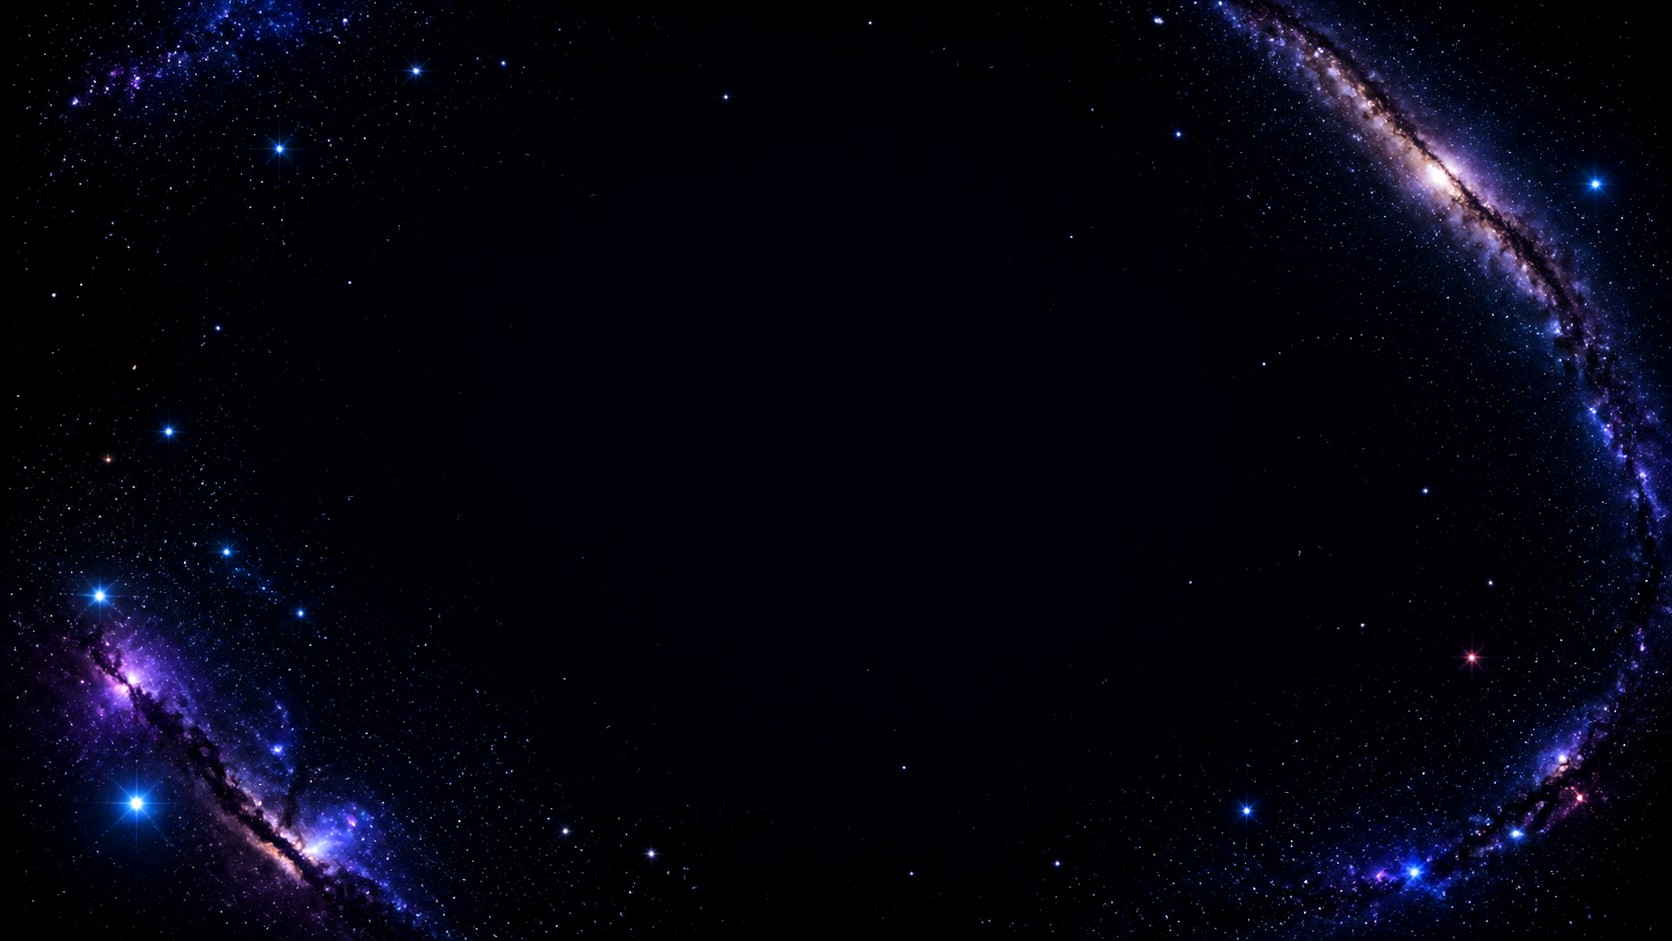
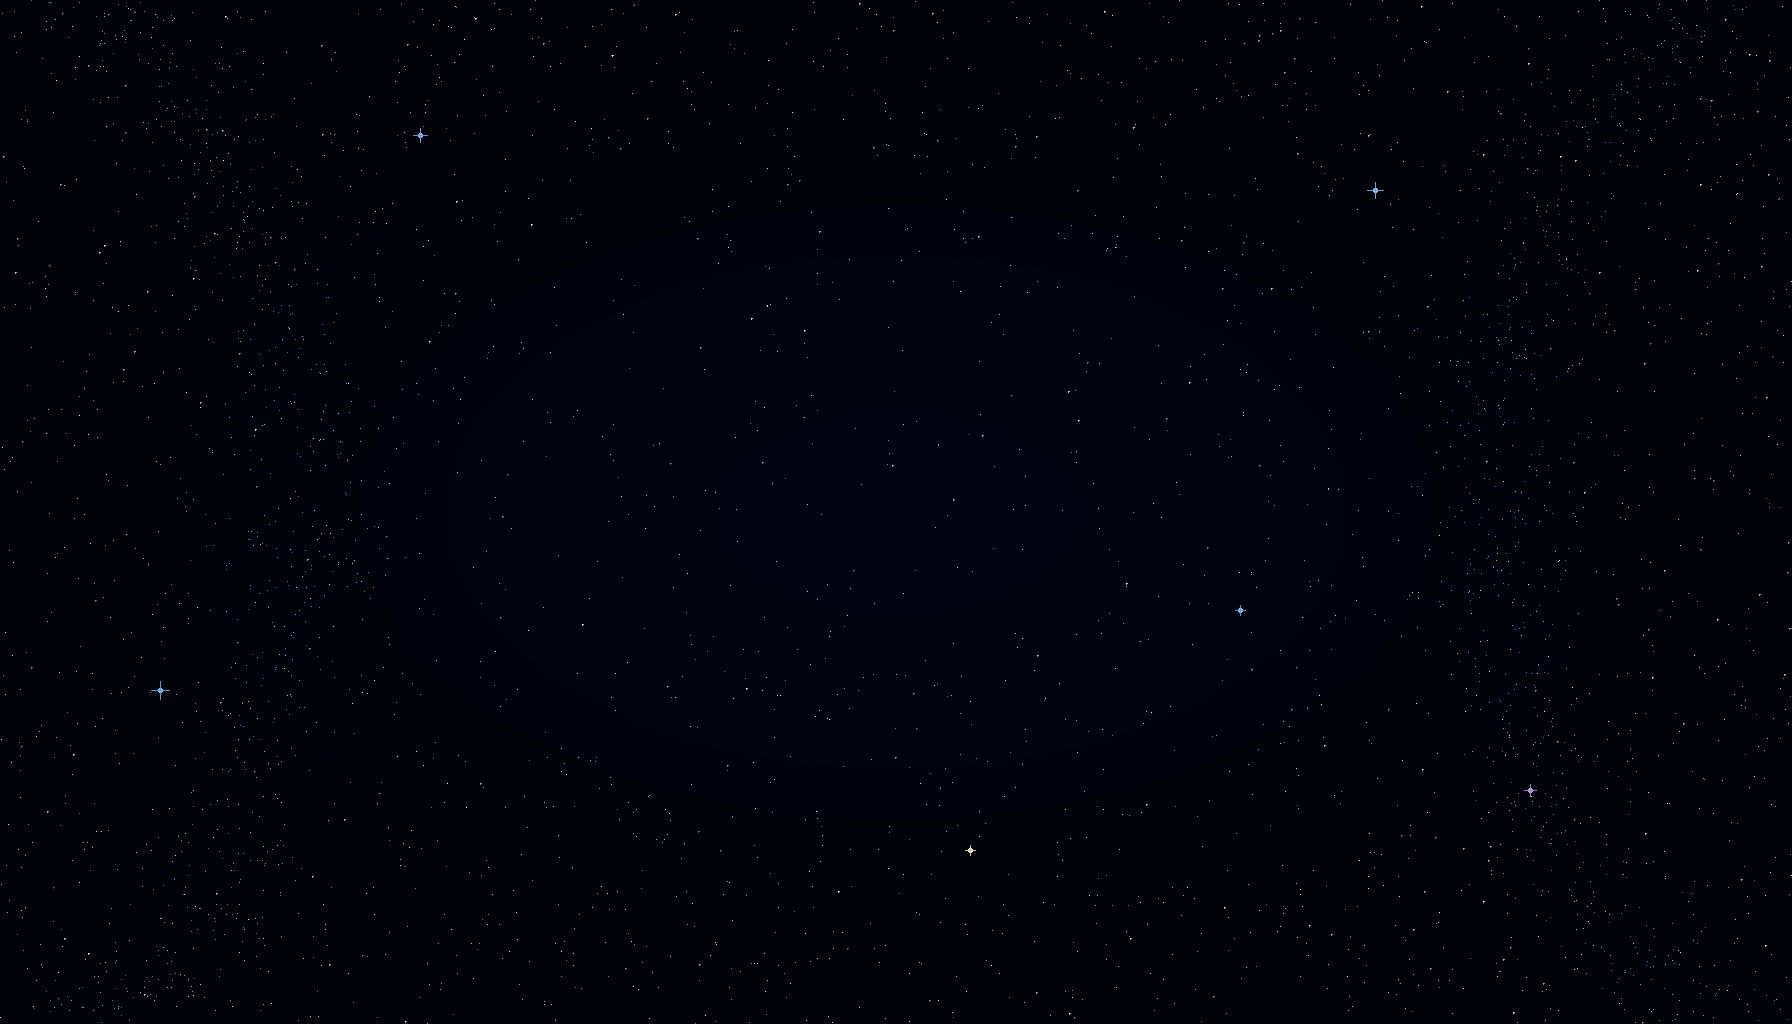
Make galaxy view render crisp instead of misty
The visual softness came from nebula-like background art plus CSS backdrop blur and broad Canvas glow. This replaces the backdrop with a dark starfield raster, removes panel backdrop-filter blur, and tightens graph glow/edge alpha so the view reads as crisp space rather than haze.

Constraint: Preserve a raster background asset while eliminating foggy overlays.

Rejected: Keep tuning nebula art | any cloud texture continues to read as haze behind dense graph nodes.

Confidence: high

Scope-risk: narrow

Tested: npm run typecheck

Tested: npm run build

Tested: git diff --check

Tested: Viewed the replacement galaxy-background.jpg locally.

Not-tested: Manual Obsidian reload visual inspection.

diff --git a/src/ui/GalaxyGraphView.ts b/src/ui/GalaxyGraphView.ts
@@ -435,7 +435,7 @@ export class GalaxyGraphView extends ItemView {
   private drawBackground(ctx: CanvasRenderingContext2D): void {
     ctx.clearRect(0, 0, this.width, this.height);
     ctx.save();
-    ctx.globalAlpha = 0.46;
+    ctx.globalAlpha = 0.24;
     for (let i = 0; i < 120; i += 1) {
       const x = ((i * 137.5) % this.width);
       const y = ((i * 71.3) % this.height);
@@ -483,7 +483,7 @@ export class GalaxyGraphView extends ItemView {
     for (const edge of this.graph.edges) {
       if (!edge.source.visible || !edge.target.visible) continue;
       if (edge.type === 'tag' && !this.includeTagEdges) continue;
-      const alpha = edge.type === 'tag' ? 0.08 : 0.18;
+      const alpha = edge.type === 'tag' ? 0.05 : 0.12;
       ctx.globalAlpha = alpha * Math.min(1, (edge.source.screenSize + edge.target.screenSize) / 12);
       ctx.strokeStyle = edge.type === 'tag' ? '#b7ffde' : '#f7d26b';
       ctx.lineWidth = edge.weight;
@@ -498,15 +498,15 @@ export class GalaxyGraphView extends ItemView {
   private drawNode(ctx: CanvasRenderingContext2D, node: GalaxyNode): void {
     const glow = node.selected || node.active || node === this.hoveredNode;
     ctx.save();
-    ctx.globalAlpha = Math.min(1, 0.34 + node.screenSize / 16);
+    ctx.globalAlpha = Math.min(1, 0.42 + node.screenSize / 18);
     ctx.shadowColor = node.color;
-    ctx.shadowBlur = glow ? 24 : 8;
+    ctx.shadowBlur = glow ? 12 : 2;
     ctx.fillStyle = node.active ? '#ffffff' : node.color;
     ctx.beginPath();
     ctx.arc(node.screenX, node.screenY, node.screenSize * (glow ? 1.35 : 1), 0, Math.PI * 2);
     ctx.fill();
     if (node.links + node.backlinks > 16 || glow) {
-      ctx.globalAlpha = glow ? 0.45 : 0.18;
+      ctx.globalAlpha = glow ? 0.36 : 0.1;
       ctx.strokeStyle = node.color;
       ctx.lineWidth = 1.2;
       ctx.beginPath();
@@ -527,7 +527,7 @@ export class GalaxyGraphView extends ItemView {
       ctx.globalAlpha = 0.72;
       ctx.fillStyle = '#f8fafc';
       ctx.shadowColor = '#020617';
-      ctx.shadowBlur = 8;
+      ctx.shadowBlur = 2;
       ctx.fillText(`${cluster.label} ${cluster.count}`, sample.screenX, sample.screenY - 34);
     }
     ctx.restore();

diff --git a/styles.css b/styles.css
@@ -3928,9 +3928,8 @@ code .oc-file-link:hover {
   position: absolute;
   z-index: 2;
   border: 1px solid rgba(125, 211, 252, 0.22);
-  background: rgba(4, 9, 24, 0.76);
+  background: rgba(4, 9, 24, 0.9);
   box-shadow: 0 0 28px rgba(56, 189, 248, 0.12), inset 0 0 28px rgba(14, 165, 233, 0.05);
-  backdrop-filter: blur(10px);
 }
 
 .oc-galaxy-controls {

diff --git a/src/style/features/galaxy-graph.css b/src/style/features/galaxy-graph.css
@@ -20,9 +20,8 @@
   position: absolute;
   z-index: 2;
   border: 1px solid rgba(125, 211, 252, 0.22);
-  background: rgba(4, 9, 24, 0.76);
+  background: rgba(4, 9, 24, 0.9);
   box-shadow: 0 0 28px rgba(56, 189, 248, 0.12), inset 0 0 28px rgba(14, 165, 233, 0.05);
-  backdrop-filter: blur(10px);
 }
 
 .oc-galaxy-controls {
